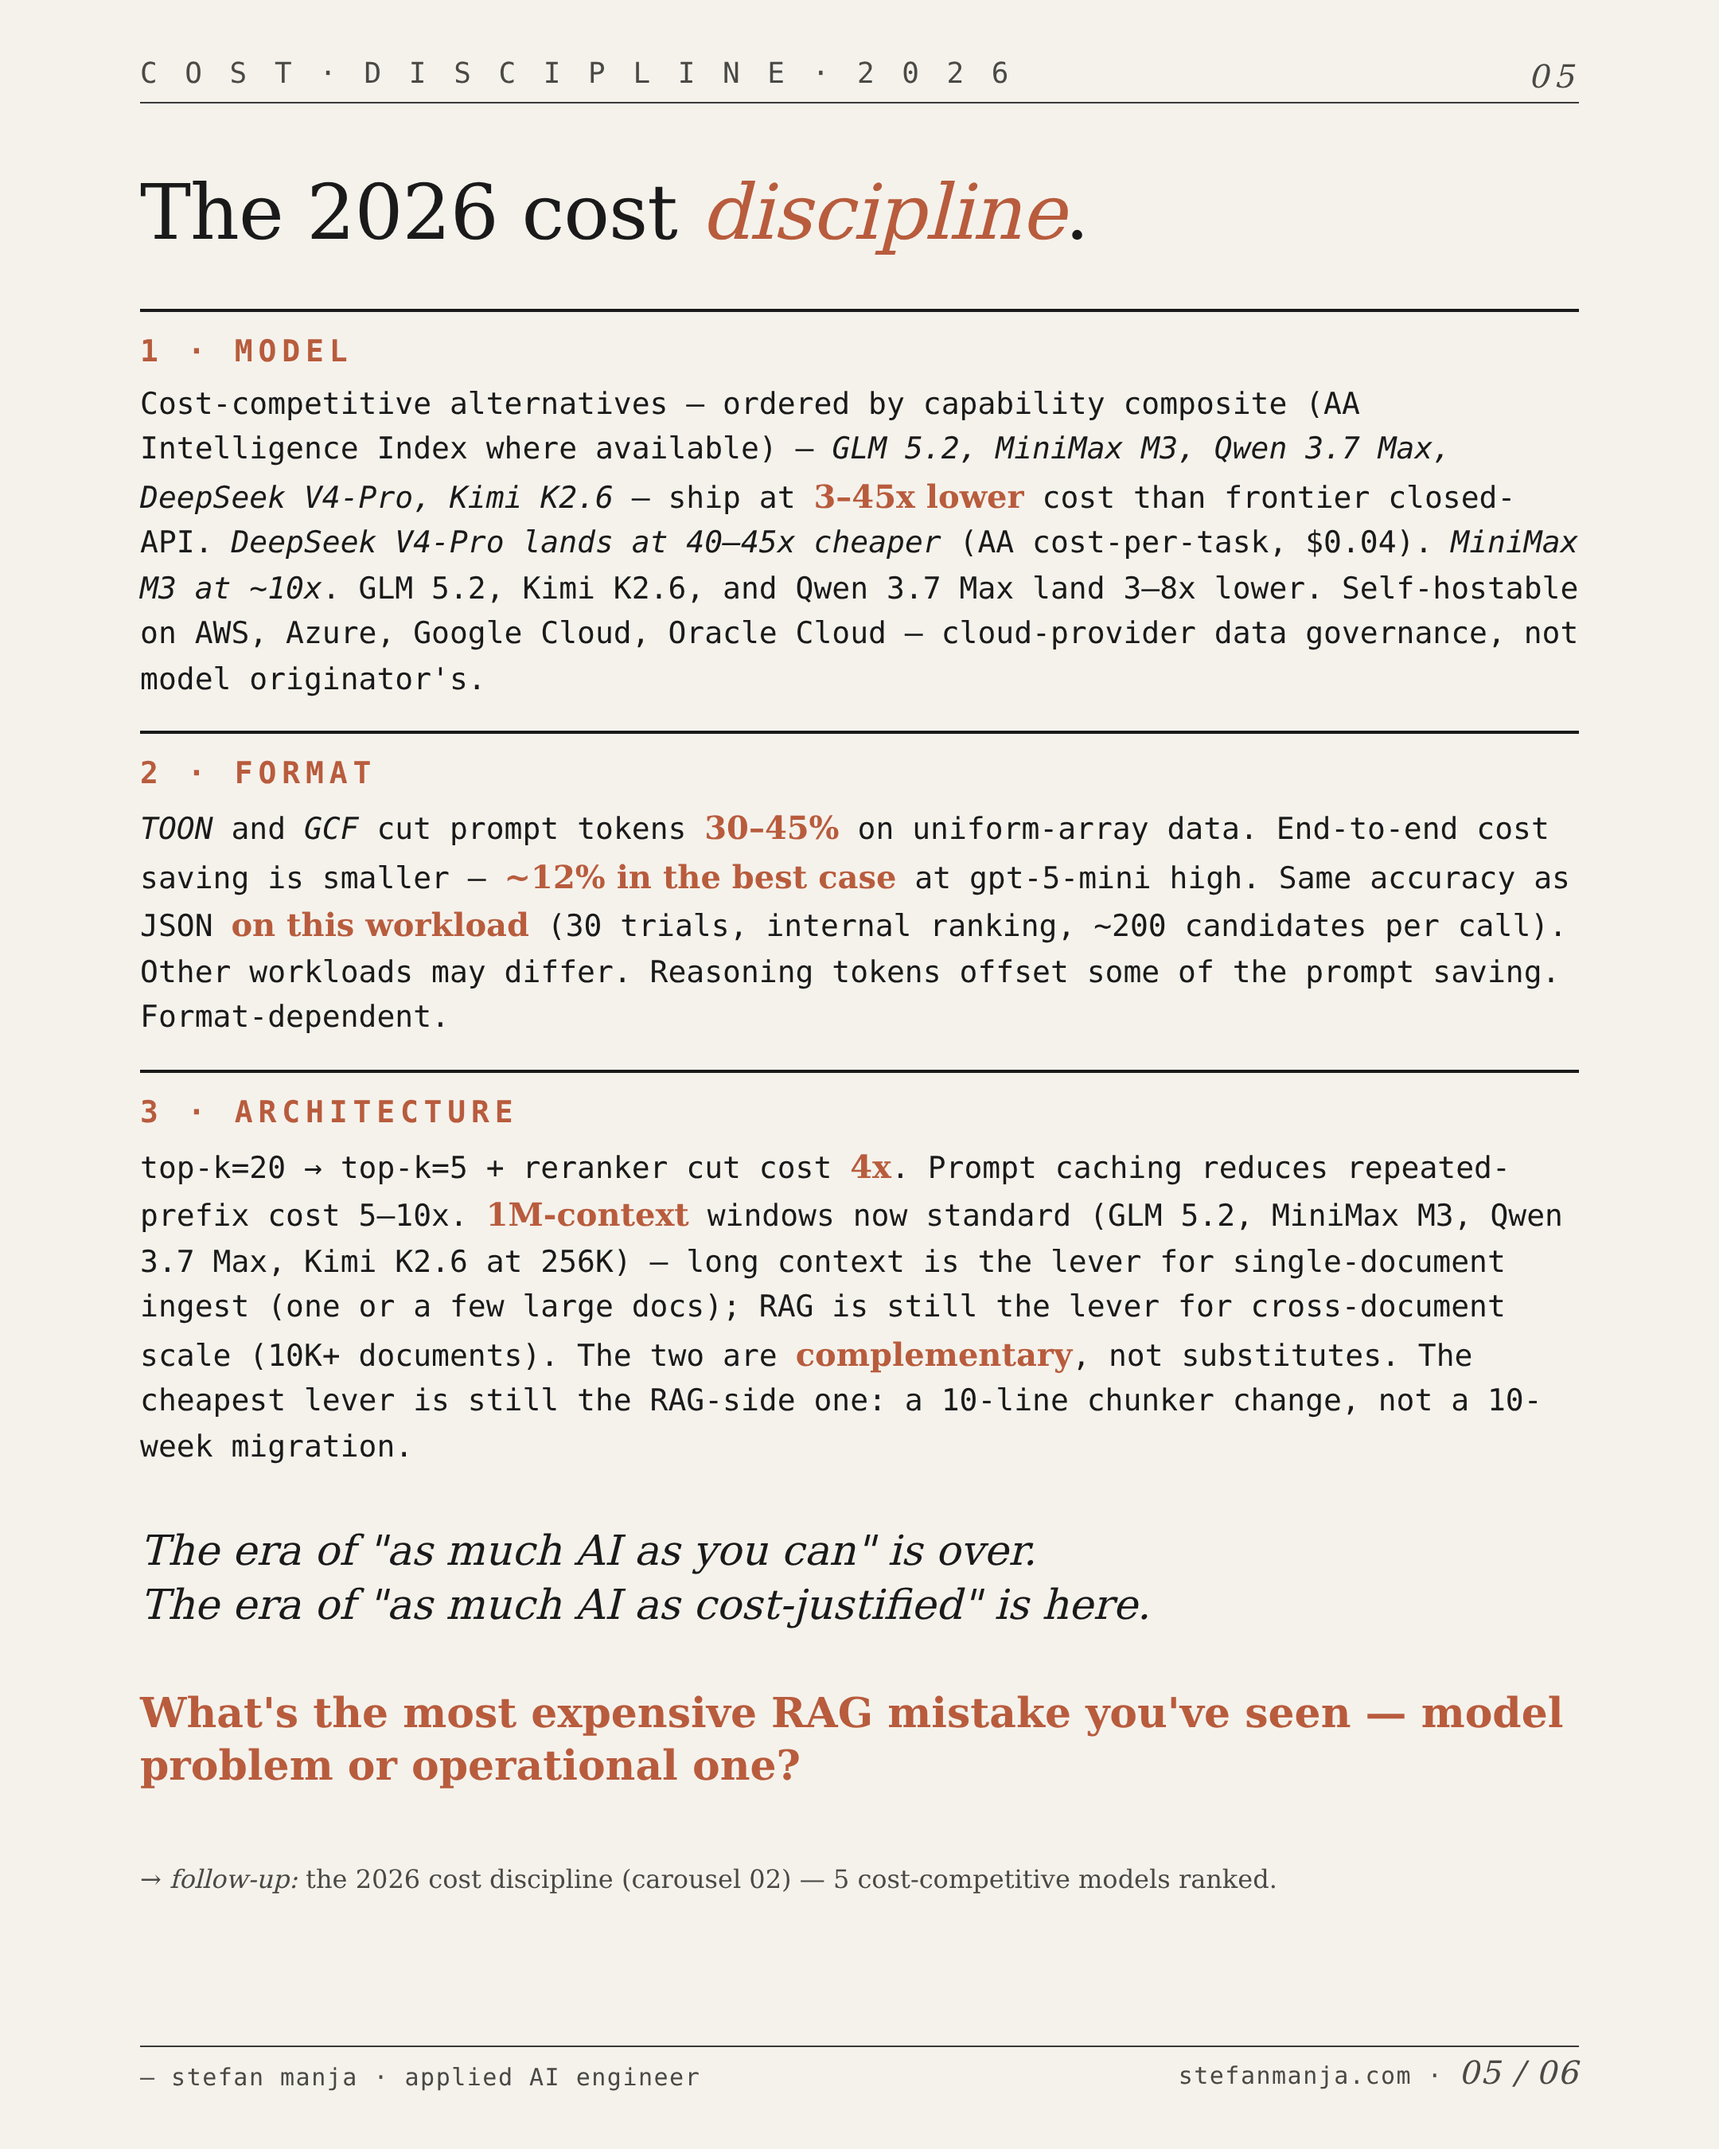
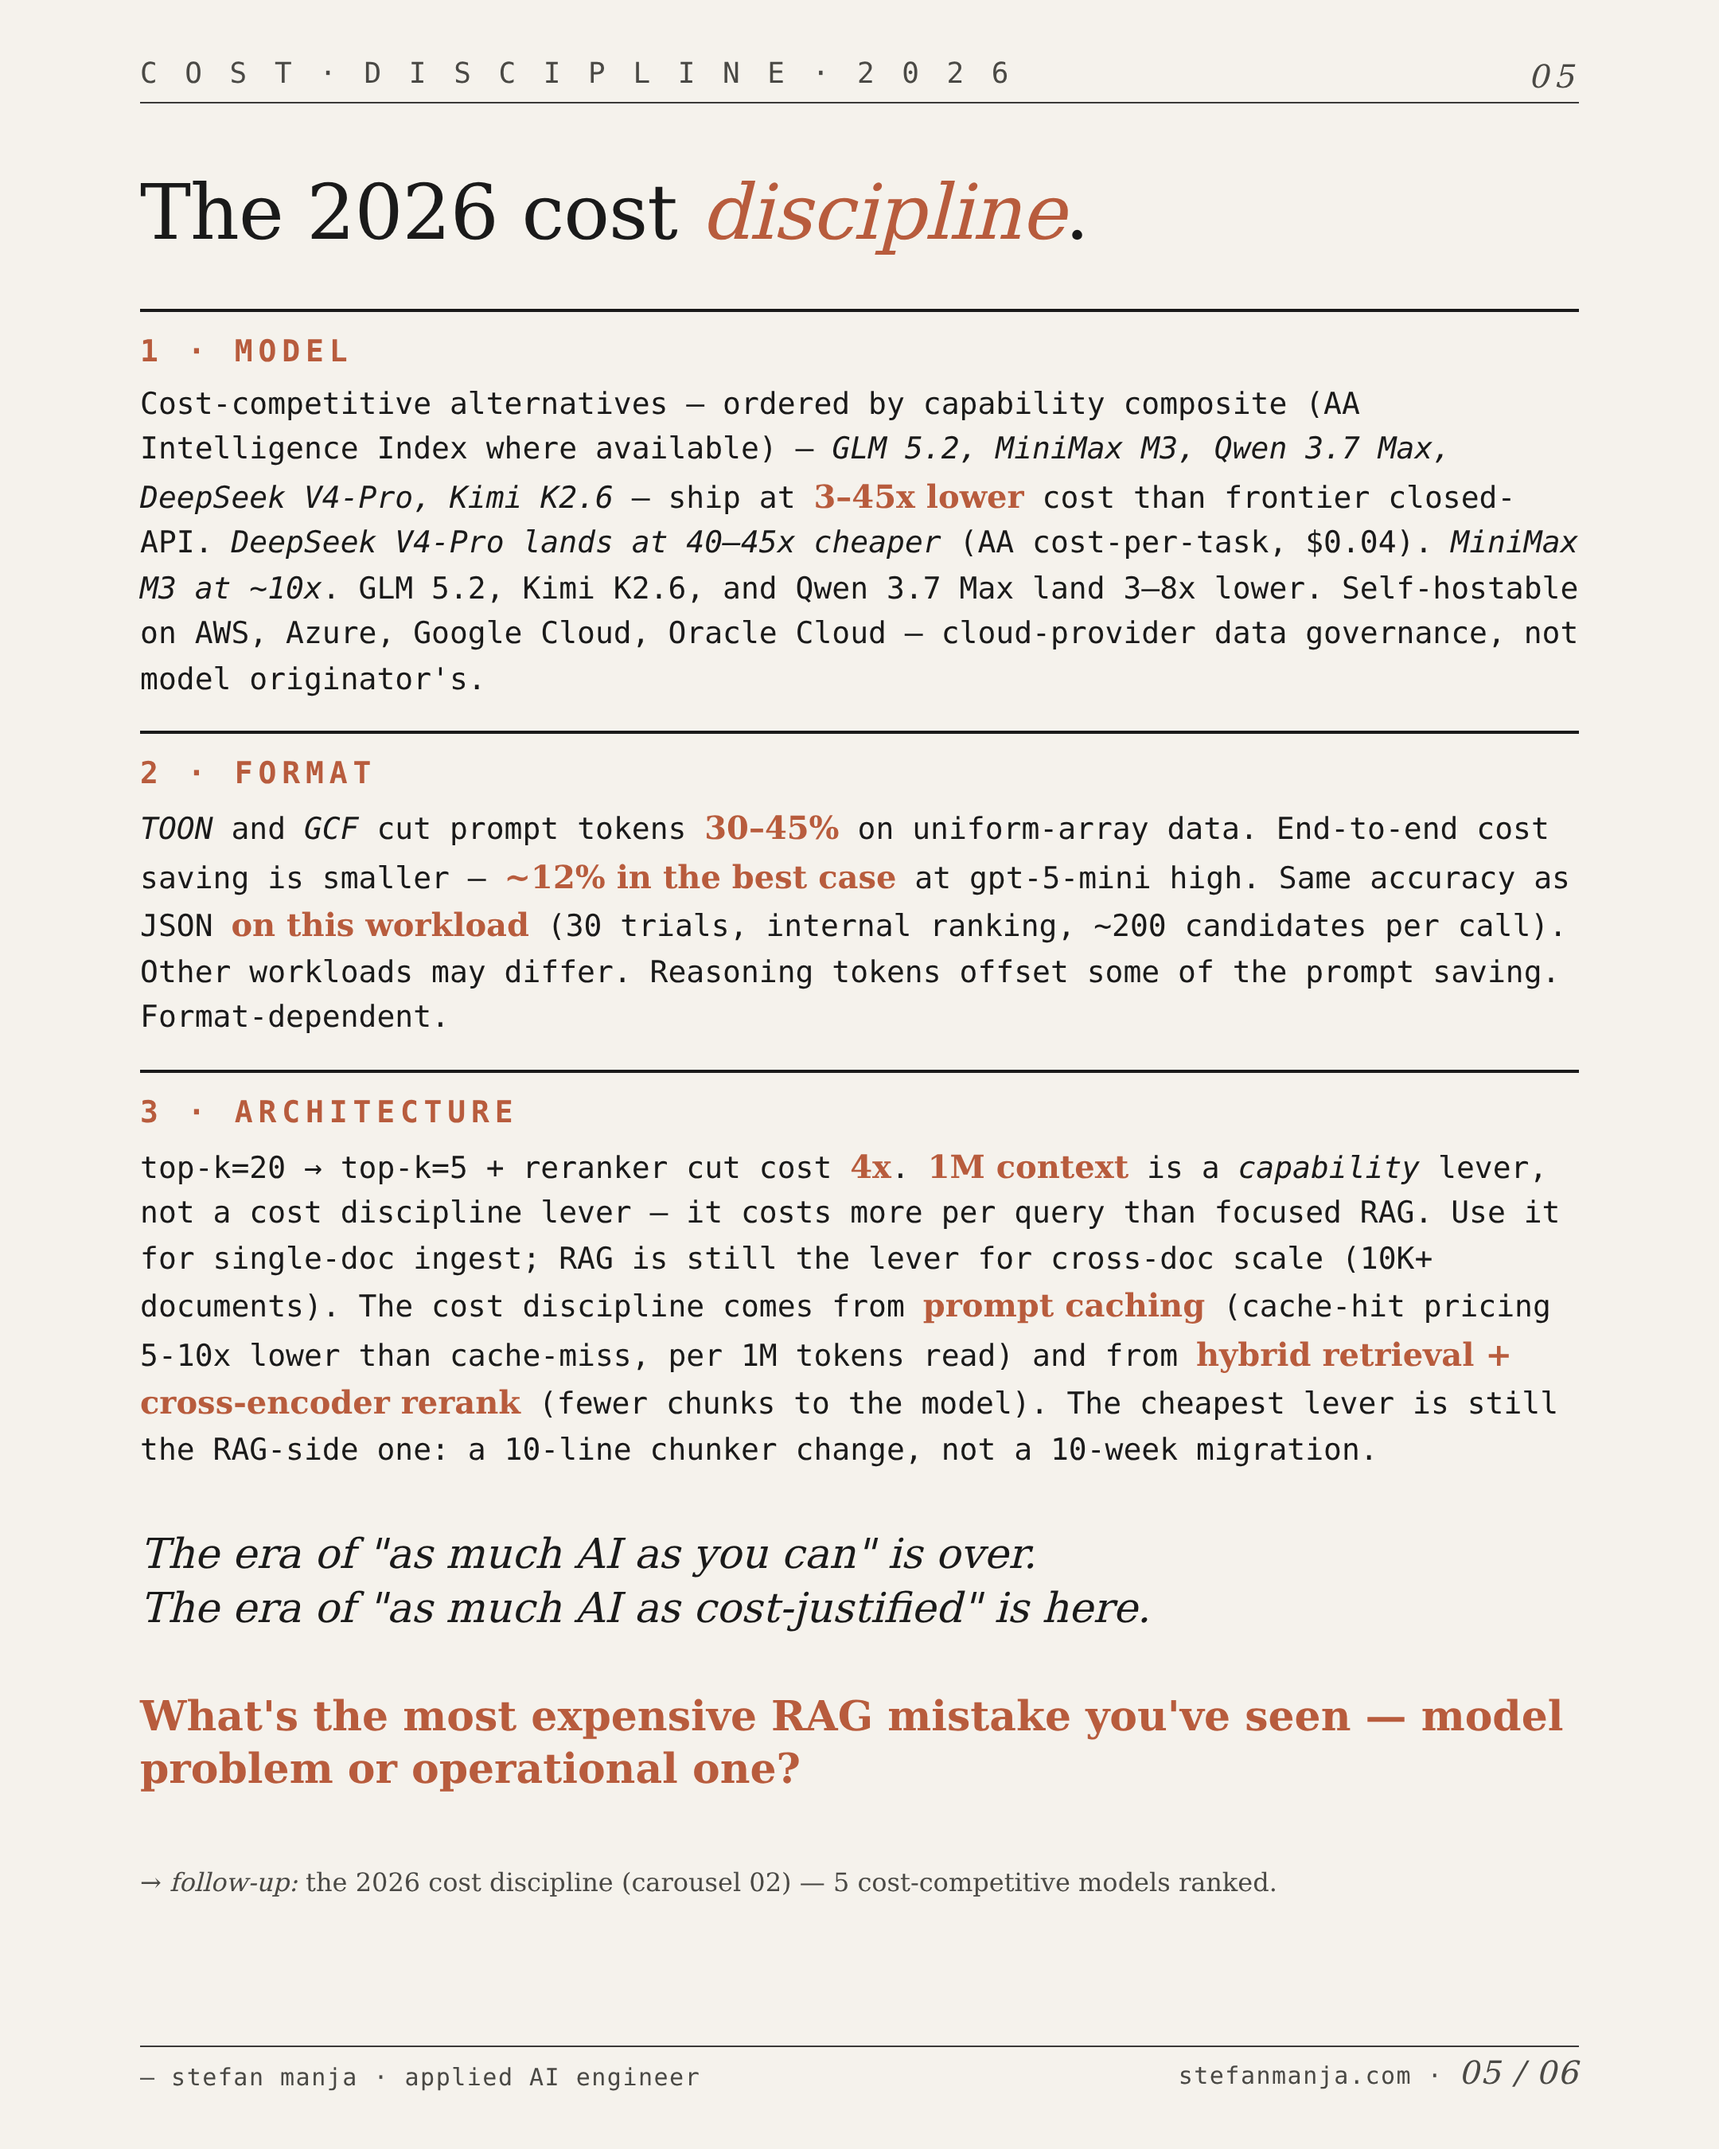
fix(carousel): v10.1 carousel A — frontier model, retrieval strategy, capability/cost split
- Slide 4: '70B model' -> 'frontier model (GPT-5.5 in the most recent case)'; '$0.15' -> 'around $0.15'; '4x' -> '3-4x'; added 'at 1k tokens each' to match chunk size
- Slide 2: 'picks a chunking strategy' -> 'picks a retrieval strategy' (2026 RAG is hybrid, not just chunking)
- Slide 5 ARCHITECTURE: 1M context reframed as a capability lever; cost discipline reframed to prompt caching + hybrid retrieval + cross-encoder rerank
- Slide 5 closing question: forward-reference to carousel B (the cost discipline follow-up) preserved
- Slide 6: 7 sections -> 5 sections (dropped COMPANION/FOLLOW-UP cite-labels + INDEX METHODOLOGY; condensed PRIVACY); INDEX METHODOLOGY moved to blog post methodology note
- LinkedIn draft: slide 4 mirror of HTML (frontier model, around $0.15, 3-4x, cross-encoder reranker); slide 5 mirror (Cost-competitive alternatives, 3-45x spread, TOON uppercase, 1M context as capability)
- Slide 2+3 PNGs re-rendered with the v10.1 edits

diff --git a/carousel/rag-pilot-failures-ac.html b/carousel/rag-pilot-failures-ac.html
@@ -204,7 +204,7 @@
   <h1 class="slide-title">Build the eval <em>before</em> the build.</h1>
 
   <div class="pattern-body">
-    A team builds a RAG system against 20–30 sample questions, picks a chunking strategy that "looks right," iterates on the prompt until the sample outputs read well, and ships.
+    A team builds a RAG system against 20–30 sample questions, picks a retrieval strategy that "looks right," iterates on the prompt until the sample outputs read well, and ships.
   </div>
 
   <hr class="divider">
@@ -367,7 +367,7 @@
   <h1 class="slide-title">Log cost per query from <em>day one</em>.</h1>
 
   <div class="pattern-body">
-    The team builds a RAG system, ships to a small group, then a larger group, then is surprised when the monthly bill jumps 10x. The system is doing what it was told — top-k=20, 70B model, 500-token answer — but the cost per query is $0.15 and the team is running 50,000 queries a day.
+    The team builds a RAG system, ships to a small group, then a larger group, then is surprised when the monthly bill jumps 10x. The system is doing what it was told — top-k=20 chunks at 1k tokens each, frontier model (GPT-5.5 in the most recent case), 500-token answer — but the cost per query is around $0.15 and the team is running 50,000 queries a day.
   </div>
 
   <hr class="divider">
@@ -456,7 +456,7 @@
     <div class="axis">
       <div class="axis-title">3 · ARCHITECTURE</div>
       <div class="axis-body">
-        top-k=20 → top-k=5 + reranker cut cost <span class="num">4x</span>. Prompt caching reduces repeated-prefix cost 5–10x. <span class="num">1M-context</span> windows now standard (GLM 5.2, MiniMax M3, Qwen 3.7 Max, Kimi K2.6 at 256K) — long context is the lever for single-document ingest (one or a few large docs); RAG is still the lever for cross-document scale (10K+ documents). The two are <span class="num">complementary</span>, not substitutes. The cheapest lever is still the RAG-side one: a 10-line chunker change, not a 10-week migration.
+        top-k=20 → top-k=5 + reranker cut cost <span class="num">4x</span>. <span class="num">1M context</span> is a <em>capability</em> lever, not a cost discipline lever — it costs more per query than focused RAG. Use it for single-doc ingest; RAG is still the lever for cross-doc scale (10K+ documents). The cost discipline comes from <span class="num">prompt caching</span> (cache-hit pricing 5-10x lower than cache-miss, per 1M tokens read) and from <span class="num">hybrid retrieval + cross-encoder rerank</span> (fewer chunks to the model). The cheapest lever is still the RAG-side one: a 10-line chunker change, not a 10-week migration.
       </div>
     </div>
   </div>
@@ -488,14 +488,14 @@
     4 enterprise RAG engagements, 2024–2026. Referred to throughout as "in past enterprise AI projects." The 3 fixes are not theoretical — they are the specific changes that took each system from demo mode to production.
 
     <div class="cite-label">DATA · TOP-5 OPEN-WEIGHT · $ / 1M TOKENS · ordered by capability (AA Index v4.1)</div>
-    — GLM 5.2:        $1.40 in / $4.40 out · AA Index 51, leading open weights as of 2026-06-17 · Z.ai on BIS Entity List
-    — MiniMax M3:     $0.30 in / $1.20 out · standard tier, ≤512k · AA Index 44 · 30.9% agentic abstention (vendor-reported, Frontier Coding claim)
-    — Qwen 3.7 Max:   $1.25 in / $3.75 out · AA Index 46 (2026-06-18) · proprietary, Alibaba Cloud Model Studio only — no public weights
-    — DeepSeek V4-Pro: $0.435 in / $0.870 out · direct API, not 3rd-party hosted · AA Index 44
-    — Kimi K2.6:      $0.95 in / $4.00 out · cache-miss rate · AA Index 43
+    — GLM 5.2:        $1.40 in / $4.40 out · AA Index 51
+    — MiniMax M3:     $0.30 in / $1.20 out · AA Index 44
+    — Qwen 3.7 Max:   $1.25 in / $3.75 out · AA Index 46
+    — DeepSeek V4-Pro: $0.435 in / $0.870 out · AA Index 44
+    — Kimi K2.6:      $0.95 in / $4.00 out · AA Index 43
 
     <div class="cite-label">PRIVACY · DEPLOYMENT</div>
-    For sensitive enterprise data, deploy via cloud-provider paths (AWS, Azure, Google Cloud, Oracle Cloud) or self-host. Direct APIs of Chinese providers route data through China. <em>MiniMax M3: EU / Singapore endpoints available</em> — data outside China. Frontier APIs (OpenAI, Anthropic) are default-safe under their DPAs. <em>Z.ai (GLM 5.2) is on the BIS Entity List (Jan 2025)</em> — direct API use is restricted for US persons; use cloud-provider paths only.
+    For sensitive enterprise data, deploy via cloud-provider paths (AWS, Azure, Google Cloud, Oracle Cloud) or self-host. <em>Z.ai (GLM 5.2) is on the BIS Entity List (Jan 2025)</em> — direct API use is restricted for US persons. <em>MiniMax M3: EU / Singapore endpoints available</em> — data outside China.
 
     <div class="cite-label">PRICING · VERIFIED 2026-06-17</div>
     — GLM 5.2:        <span class="url">docs.z.ai</span>
@@ -506,15 +506,8 @@
     — GPT-5.5:        <span class="url">platform.openai.com</span>
     — Claude Opus 4.8: <span class="url">anthropic.com</span>
 
-    <div class="cite-label">INDEX METHODOLOGY</div>
-    AA Index v4.1 — composite of MMLU-Pro, GPQA-Diamond, MATH, HumanEval, LiveCodeBench, Terminal-Bench. See <span class="url">artificialanalysis.ai/methodology</span>
-
-    <div class="cite-label">FOLLOW-UP CAROUSEL</div>
-    the 2026 cost discipline — 5 cost-competitive models ranked, with cost data and deployment paths:<br>
-    <span class="url">stefanmanja.com</span> (carousel 02) · <span class="url">stefanmanja.com/writing/cost-discipline-2026/</span>
-
     <div class="cite-label">FULL POST</div>
-    methodology + cost data + 3 fixes:<br>
+    methodology + cost data + 3 fixes + 2026 differentiators:<br>
     <span class="url">stefanmanja.com/writing/rag-pilot-failures/</span>
   </div>
 

diff --git a/carousel/rag-pilot-failures-linkedin.md b/carousel/rag-pilot-failures-linkedin.md
@@ -46,25 +46,23 @@ The carousel below is what I wish I had known at the start.
 
 ### Slide 4 — Fix 3: Log cost per query from day one
 
-**The pattern.** The team builds a RAG system, ships to a small group, then a larger group, then is surprised when the monthly bill jumps 10x. The system is doing what it was told — top-k=20, 70B model, 500-token answer — but the cost per query is $0.15 and the team is running 50,000 queries a day.
+**The pattern.** The team builds a RAG system, ships to a small group, then a larger group, then is surprised when the monthly bill jumps 10x. The system is doing what it was told — top-k=20 chunks at 1k tokens each, frontier model (GPT-5.5 in the most recent case), 500-token answer — but the cost per query is around $0.15 and the team is running 50,000 queries a day.
 
 **The fix.** Log per-query cost from day one. Every retrieval has a cost. Every LLM call has a cost. The first question after go-live: "what is the cost per query, and who is the top-10% of users by cost?"
 
-**The data.** One team cut cost 4x with a single change: top-k=20 → top-k=5 + reranker. Quality went up (reranker is more selective than dense retrieval). Cost went down (fewer chunks to process). They had been paying 4x more for worse answers.
+**The data.** One team cut cost 3-4x with a single change: top-k=20 → top-k=5 with a cross-encoder reranker. Quality went up (reranker is more selective than dense retrieval). Cost went down (fewer chunks to process, fewer tokens to the model). They had been paying 3-4x more for worse answers.
 
 ### Slide 5 — Cost-spiral: the 2026 angle
 
 **The 2026 cost discipline**
 
-Frontier model API prices look stable. They are subsidized by VC funding — the post-IPO price is widely expected to be higher than today's. Build the cost discipline now, while the pricing is in your favor.
-
 Three axes of cost reduction:
 
-1. **Model.** Open-weight alternatives — DeepSeek V4-Pro, GLM 5.2, Qwen 3.7 Max, Kimi K2.6, MiniMax M3 — ship at 10-30x lower cost than frontier closed-API. Deployable on the same major cloud providers (AWS Bedrock, Azure AI Foundry, Google Vertex, OCI). Deployment flexibility + pricing leverage + the option to self-host on dedicated infrastructure.
+1. **Model.** Cost-competitive alternatives — DeepSeek V4-Pro, GLM 5.2, Qwen 3.7 Max, Kimi K2.6, MiniMax M3 — ship at 3-45x lower cost than frontier closed-API. DeepSeek V4-Pro lands at 40-45x cheaper (AA cost-per-task, $0.04). MiniMax M3 at ~10x. GLM 5.2, Kimi K2.6, and Qwen 3.7 Max land 3-8x lower. Deployable on the same major cloud providers (AWS Bedrock, Azure AI Foundry, Google Vertex, OCI). Deployment flexibility + pricing room + the option to self-host on dedicated infrastructure.
 
-2. **Format.** Toon cuts input tokens 30-40%, net +12% cost reduction. GCF goes further but adds reasoning cost.
+2. **Format.** TOON and GCF cut prompt tokens 30-45% on uniform-array data. End-to-end cost saving is smaller — ~12% in the best case at gpt-5-mini high. Same accuracy as JSON on this workload (30 trials, internal ranking, ~200 candidates per call). Other workloads may differ. Reasoning tokens offset some of the prompt saving. Format-dependent.
 
-3. **Architecture.** top-k=20 → top-k=5 + reranker cut cost 4x. Prompt caching reduces repeated-prefix cost 5-10x.
+3. **Architecture.** top-k=20 → top-k=5 + reranker cut cost 4x. Prompt caching reduces repeated-prefix cost 5-10x. 1M context is a capability lever, not a cost discipline lever — use it for single-doc ingest; RAG is still the lever for cross-doc scale.
 
 The era of "as much AI as you can" is over. The era of "as much AI as cost-justified" is here.
 
